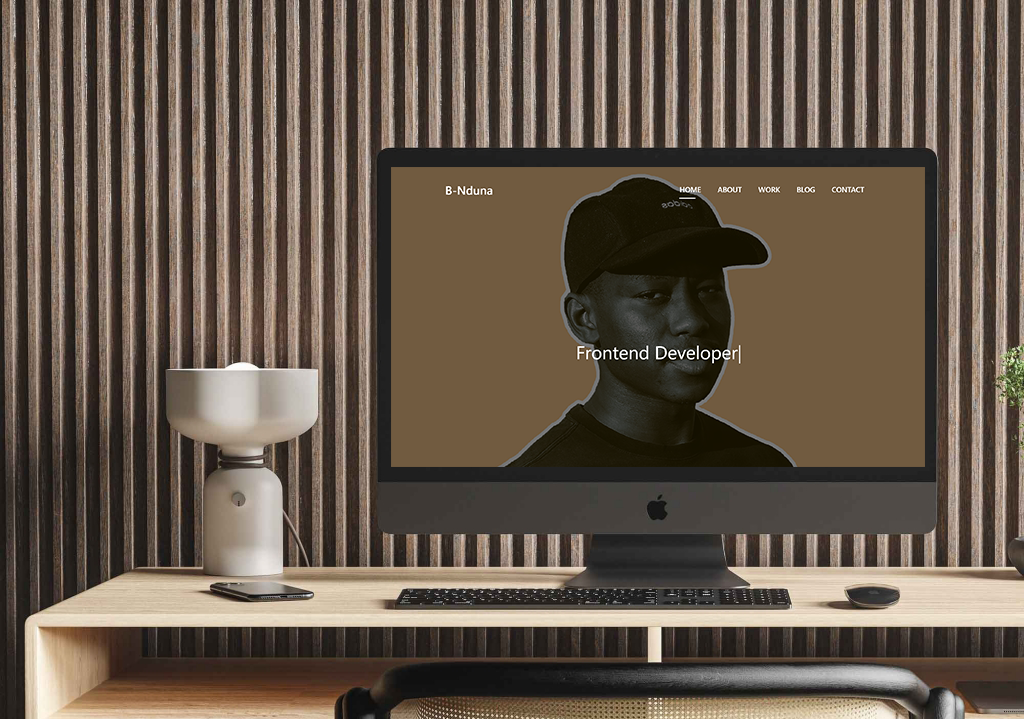
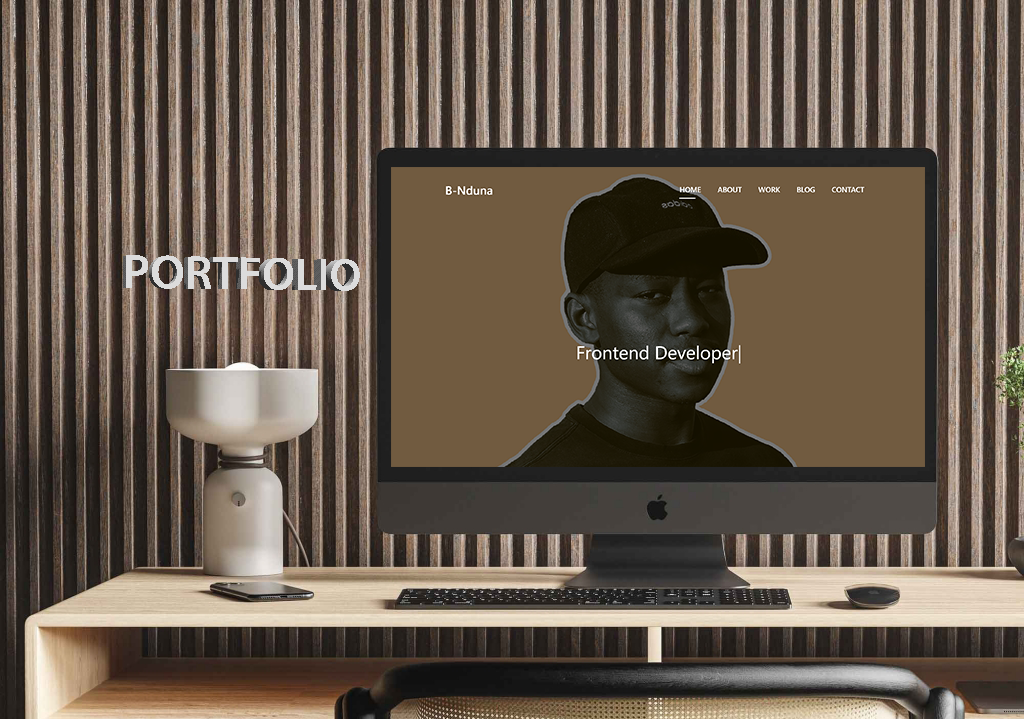
Update accessibility hints and modify portfolio image overlay

Changed region(s): [[0.0938, 0.3366, 0.375, 0.4284]]

diff --git a/index.html b/index.html
@@ -54,7 +54,7 @@
     <a href="https://www.b-nduna.online" target="_blank">
         <div class="portfolio-container">
             <img src="images/portfolio_website.png" alt="My Portfolio">
-            <div class="overlay">Portfolio</div>
+            <div class="overlay"></div>
         </div>
     </a>
 </section>
